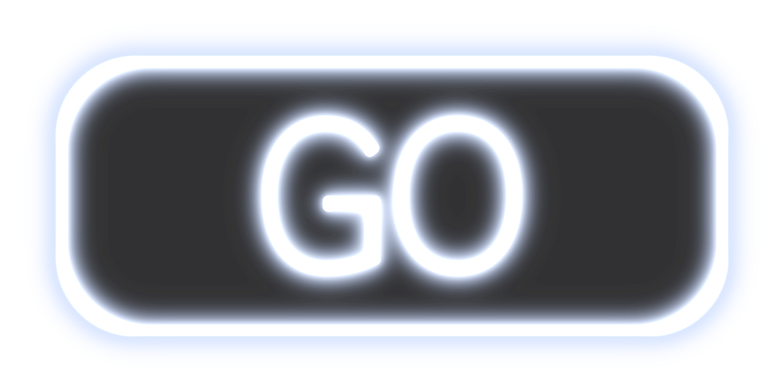
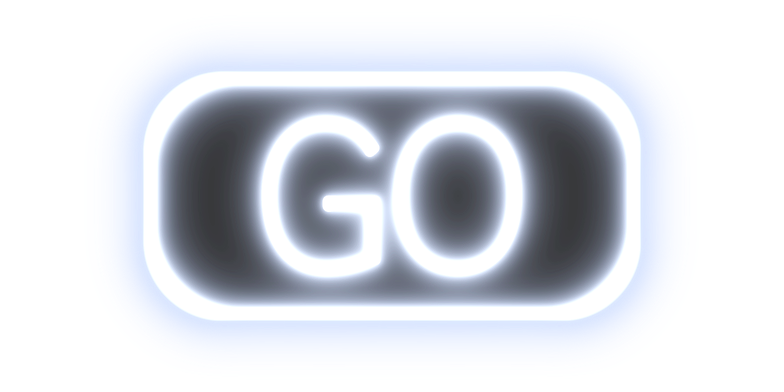
GO button: tighter lit box, stronger halo, slow breathing glow

diff --git a/tools/art/neon_ui.py b/tools/art/neon_ui.py
@@ -330,20 +330,25 @@ def build_play():
     N.set_scale(4)
     font = TubeFont()
     w, h = 196, 98
-    mg = 14        # inset so the bloom fits inside the image
+    bw_, bh_ = 124, 62     # the lit box itself: snug around GO (the image keeps its size, the rest is room for the glow)
+    mx, my = (w - bw_) // 2, (h - bh_) // 2
     size = (int(w * N.U), int(h * N.U))
-    outer = rounded_mask(w - 2 * mg, h - 2 * mg, 20)
-    inner = rounded_mask(w - 2 * mg, h - 2 * mg, 20, 3.0)
+    outer = rounded_mask(bw_, bh_, 20)
+    inner = rounded_mask(bw_, bh_, 20, 3.4)
     ring = Image.new('L', size, 0)
-    ring.paste(ImageChops.subtract(outer, inner), (mg * N.U, mg * N.U))
+    ring.paste(ImageChops.subtract(outer, inner), (mx * N.U, my * N.U))
     fill = Image.new('L', size, 0)
-    fill.paste(outer, (mg * N.U, mg * N.U))
+    fill.paste(outer, (mx * N.U, my * N.U))
     text = tube_text(size, font.mask('GO', 50), 50)
     mask = ImageChops.lighter(ring, text)
-    tube = tube_rgba(mask, TUBE_WHITE, 0.055 * 50 * N.U, sig=(0.3, 0.8, 1.2), fade=6 * N.U)
+    tube = tube_rgba(mask, TUBE_WHITE, 0.055 * 50 * N.U, sig=(0.3, 0.9, 2.2), fade=6 * N.U, strength=1.15)
     base = Image.new('RGBA', size, NAVY + (0,))
     base.putalpha(fill.point(lambda v: int(v * 0.85)))
-    N.finish(Image.alpha_composite(base, tube), w, h, 'gui/bGo.png')
+    # a wide soft halo behind everything so the button reads as the main call to action
+    halo = glow(Image.alpha_composite(Image.new('RGBA', size, (0, 0, 0, 0)), Image.merge('RGBA', (ring, ring, ring, ring))), 5, TUBE_WHITE, 0.55)
+    out = Image.alpha_composite(halo, base)
+    out = Image.alpha_composite(out, tube)
+    N.finish(out, w, h, 'gui/bGo.png')
     for name, w, h, text in [('bQuestionEN', 311, 80, 'Are you sure you\nwant to leave?'),
                              ('bQuestionES', 320, 80, 'Estas seguro de\nque quieres irte?')]:
         size = (int(w * N.U), int(h * N.U))

diff --git a/core/src/com/spaceship/main/MainMenuScreen.java b/core/src/com/spaceship/main/MainMenuScreen.java
@@ -104,6 +104,7 @@ public class MainMenuScreen implements Screen {
 	public Sprite bGalaxies;
 	public Sprite bSettings;
 	private Sprite bGo;
+	private float goPulse;
 	private Sprite bExit;
 	private Sprite bBack;
 	public Sprite bLeaderboard;
@@ -1268,6 +1269,16 @@ public class MainMenuScreen implements Screen {
 		bGalaxies.draw(game.batch);
 		bSettings.draw(game.batch);
 		bGo.draw(game.batch);
+		if(state == STANDBY){
+			// the main call to action breathes: a second additive pass of the same art, slowly pulsing
+			goPulse += delta;
+			float oldA = bGo.getColor().a;
+			bGo.setAlpha(oldA * (0.12f + 0.28f * (0.5f + 0.5f * MathUtils.sin(goPulse * 2.4f))));
+			Fx.additiveOn(game.batch);
+			bGo.draw(game.batch);
+			Fx.additiveOff(game.batch);
+			bGo.setAlpha(oldA);
+		}
 		bExit.draw(game.batch);
 		bTrophy.draw(game.batch);
 		bLeaderboard.draw(game.batch);
